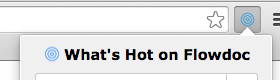
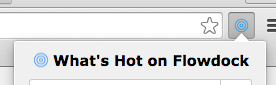
Fix a typo and add a new screenshot

diff --git a/src/popup.html b/src/popup.html
@@ -2,7 +2,7 @@
 <html>
 <head>
   <meta charset="utf-8">
-  <title>What's Hot on Flowdoc</title>
+  <title>What's Hot on Flowdock</title>
 	<link rel="stylesheet" href="css/popup.css" media="screen" charset="utf-8">
 	<script src="js/jquery-2.1.3.min.js" charset="utf-8"></script>
 	<script src="js/q.js" charset="utf-8"></script>
@@ -10,7 +10,7 @@
 <body>
   <div id="container">
     <div class="title">
-      <h1>What's Hot on Flowdoc</h1>
+      <h1>What's Hot on Flowdock</h1>
     </div>
     <div class="list">
 			Loading data...

diff --git a/src/options.html b/src/options.html
@@ -4,12 +4,12 @@
   <meta charset="utf-8">
 	<link rel="stylesheet" href="css/options.css" media="screen" charset="utf-8">
 	<script src="js/jquery-2.1.3.min.js" charset="utf-8"></script>
-  <title>What's Hot on Flowdoc - Options</title>
+  <title>What's Hot on Flowdock - Options</title>
 </head>
 <body>
   <div id="content">
     <div class="title">
-      <h1>What's Hot on Flowdoc</h1>
+      <h1>What's Hot on Flowdock</h1>
     </div>
     <div class="options">
 			<div id="message">Saved!</div>

diff --git a/README.md b/README.md
@@ -1,4 +1,4 @@
-## What's Hot on Flowdoc
+## What's Hot on Flowdock
 
 ### Overview
 
@@ -7,8 +7,8 @@ A chrome extension that lets users know what is the flow with the higher number 
 ### Feature list
 
 1. display a browser action button on Chrome
-2. display a list of flowdoc's flows of the logged user with a counter on the right side showing how many messages the flow got on the current day
-3. display an options page when the user right-clicks the browser action's icon. That page should allow the user input their "Personal API Token" from Flowdoc's user account page.
+2. display a list of flowdock's flows of the logged user with a counter on the right side showing how many messages the flow got on the current day
+3. display an options page when the user right-clicks the browser action's icon. That page should allow the user input their "Personal API Token" from Flowdock's user account page.
 4. Save the user's personal API token on every user input. There's no save button for that.
 5. display a warning on the popup page if the user clicks it but still didn't entered his/her personal api token.
 
@@ -21,6 +21,10 @@ A chrome extension that lets users know what is the flow with the higher number 
 **Extension Options Page**
 
 ![Options Page](https://raw.github.com/arctouch-ismaelstahelin/whats-hot-on-flowdoc/master/screenshots/options_page.png)
+
+**Warning**
+
+![Warning](https://raw.github.com/arctouch-ismaelstahelin/whats-hot-on-flowdoc/master/screenshots/warning.png)
 
 **Extension browser action**
 
